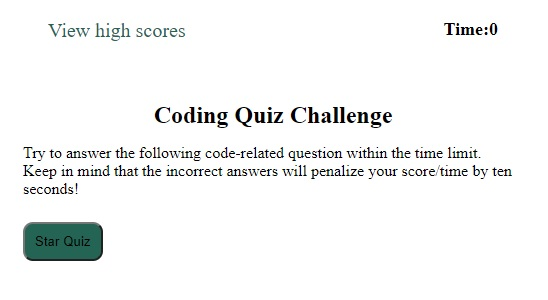
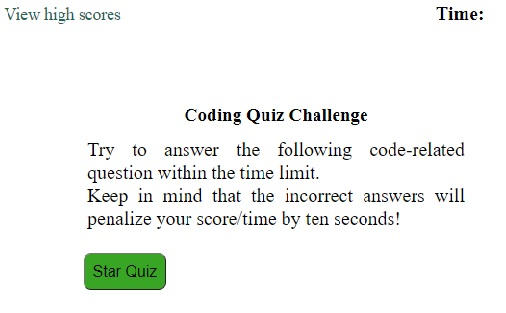
update the css,readme and add highscores.html

Changed region(s): [[0.0296, 0.33, 0.9486, 0.93], [0.0, 0.0, 0.3557, 0.15], [0.8004, 0.0, 0.9783, 0.12]]

diff --git a/assets/css/style.css b/assets/css/style.css
@@ -21,7 +21,7 @@ header a{
     width: auto;  
     text-decoration: none;
     color: rgb(36, 100, 84);
-    font-size: 30px;    
+    font-size: 38px;    
 }
 
 header h4{
@@ -47,19 +47,22 @@ main{
     flex:1;
 }
 
-
+h3{
+    font-size: 25px;
+}
 button {
     width: auto;
-    background-color: rgb(36, 100, 84);
+    background-color: rgb(57, 165, 36);
     padding: 10px ;
     margin-top: 24px;
     cursor: pointer;
     border-radius: 10px;  
     text-align: center;
+    font-size: 20px;
    
 }
 
-button:hover {background-color: rgb(60, 187, 155)}
+button:hover {background-color: rgb(237, 240, 71)}
 
 .container {
     margin: auto;
@@ -74,7 +77,8 @@ button:hover {background-color: rgb(60, 187, 155)}
       text-align: center;
   }
 .starquiz  p{
-     font-size: 22px;
+    text-align: justify;
+     font-size: 25px;
  }
 .starquiz  h2{
    margin: 15px 15px;
@@ -93,6 +97,16 @@ button:hover {background-color: rgb(60, 187, 155)}
 }
 .formScore input{
     height: 35px;
+}
+/*style for highscores.html*/
+h1{
+    
+    margin-bottom: 15px;
+}
+
+.listscores ol li{
+    font-size: 20px;
+    background-color: rgb(243, 235, 235);
 }
 
  /*style main end*/

diff --git a/assets/js/viewscore.js b/assets/js/viewscore.js
@@ -1,0 +1,32 @@
+
+
+
+function displayHighscores() {
+    // either get scores from localstorage or set to empty array
+    var highScore = JSON.parse(localStorage.getItem("Scores")) || [];
+
+    // sort highscores by score property in descending order
+    highScore.sort(function(a, b) {
+      return b.score - a.score;
+    });
+  
+    highScore.forEach(function(score) {
+      // create list for each high score
+      var listScore= document.createElement("li");
+      listScore.textContent = score.initials + " - " + score.score;
+ 
+      // display on page
+      var info= document.getElementById("high");
+      info.appendChild(listScore);
+      
+    });
+  }
+
+var buttonClear=document.querySelector("#clear")
+
+buttonClear.addEventListener("click",function(){
+    localStorage.removeItem("Scores")
+    window.location.reload();
+})
+
+displayHighscores();

diff --git a/highscores.html b/highscores.html
@@ -1,0 +1,24 @@
+<!DOCTYPE html>
+<html lang="en">
+  <head>
+    <meta charset="UTF-8" />
+    <meta name="viewport" content="width=device-width, initial-scale=1.0" />
+    <meta http-equiv="X-UA-Compatible" content="ie=edge" />
+     <link rel="stylesheet" href="./assets/css/style.css" />
+    <title>Highscores</title>
+
+   
+  </head>
+
+  <body class="container">
+    <div class="formScore listscores">
+      <h1>Highscores</h1>
+      <ol id="high"></ol>
+
+      <a href="index.html"><button>Go Back</button></a>
+      <button id="clear">Clear Highscores</button>
+    </div>
+
+    <script src="./assets/js/viewscore.js"></script>
+  </body>
+</html>

diff --git a/index.html b/index.html
@@ -10,8 +10,8 @@
 </head>
 <body >
   <header class="header">
-    <button id="linkscore" class="information"> View high scores </button> 
-      <h4>Time: <span id="count"></span></h4>
+    <a id="linkscore"  href="highscores.html" class="information"> View high scores </a> 
+      <h3>Time: <span id="count"></span></h3>
   </header>
 
     <main  class="container" id="main">
@@ -39,5 +39,6 @@
     </main>          
      
 <script src="./assets/js/script.js"></script>
+
 </body>
 </html>

diff --git a/assets/js/script.js b/assets/js/script.js
@@ -239,13 +239,7 @@ function renderLastRegistered() {
 
   listScore = JSON.parse(localStorage.getItem("Scores"));
 
-
- // if (listScore) {
-
- // }
-
-
-};
+ };
 
 
 //function save localStorage

diff --git a/README.md b/README.md
@@ -11,7 +11,7 @@ You will be penalized 2 times in the quiz. The first penalty is if you answer th
 
  ![Homepage](/assets/images/home-page.jpg)
  ______________________________________________________________________________________
- Visit the site!(https://anniavd.github.io/code-quiz/.)
+ Visit the site![Code Quiz](https://anniavd.github.io/code-quiz/)
 
 
 
@@ -26,3 +26,8 @@ The user can save their score and initials by displaying a form.
 > - An alert will be displayed to the user that their initials have been saved.
 
  ![show the final score](/assets/images/score-final.jpg)
+
+
+ The user can see all the time the **Highscore** doing click on the link **View High Score**.
+  ![show the final score](/assets/images/highscore.jpg)
+
